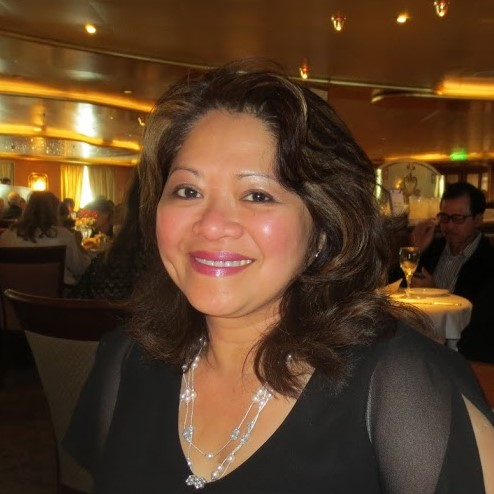
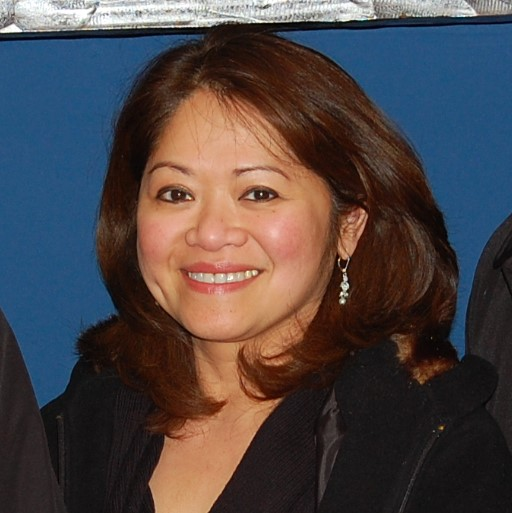
Updated Mom's photo

diff --git a/index.html b/index.html
@@ -166,7 +166,7 @@
                       <div class="col-xs-6 col-sm-6 col-lg-3">
                         <div class="team-member">
                             <a class="portfolio-link" data-toggle="modal" href="#modalRosan">
-                            <img class="mx-auto rounded-circle" src="assets/img/team/Rosan2.jpg" alt="" />
+                            <img class="mx-auto rounded-circle" src="assets/img/team/Rosan.jpg" alt="" />
                             </a>
                             <h4>Rosan Araza</h4>
                             <p class="text-muted">Mother of the Groom</p>
